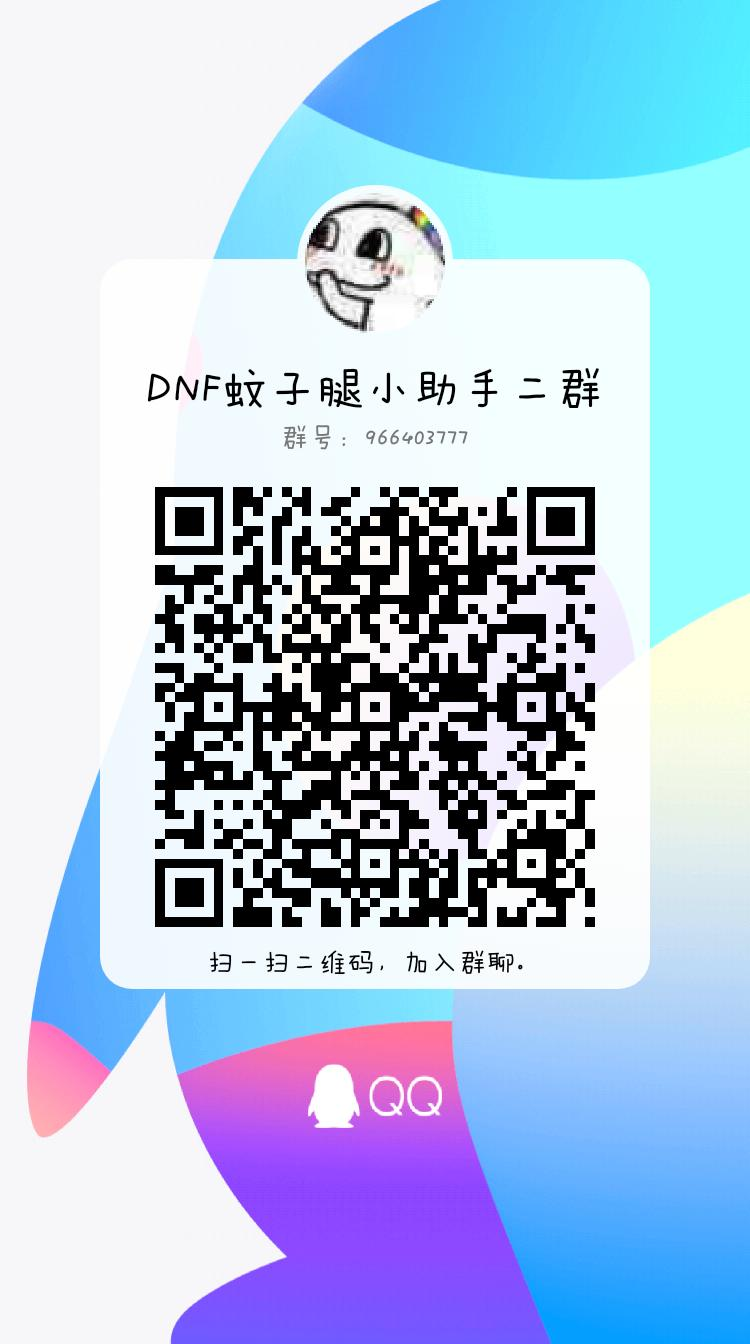
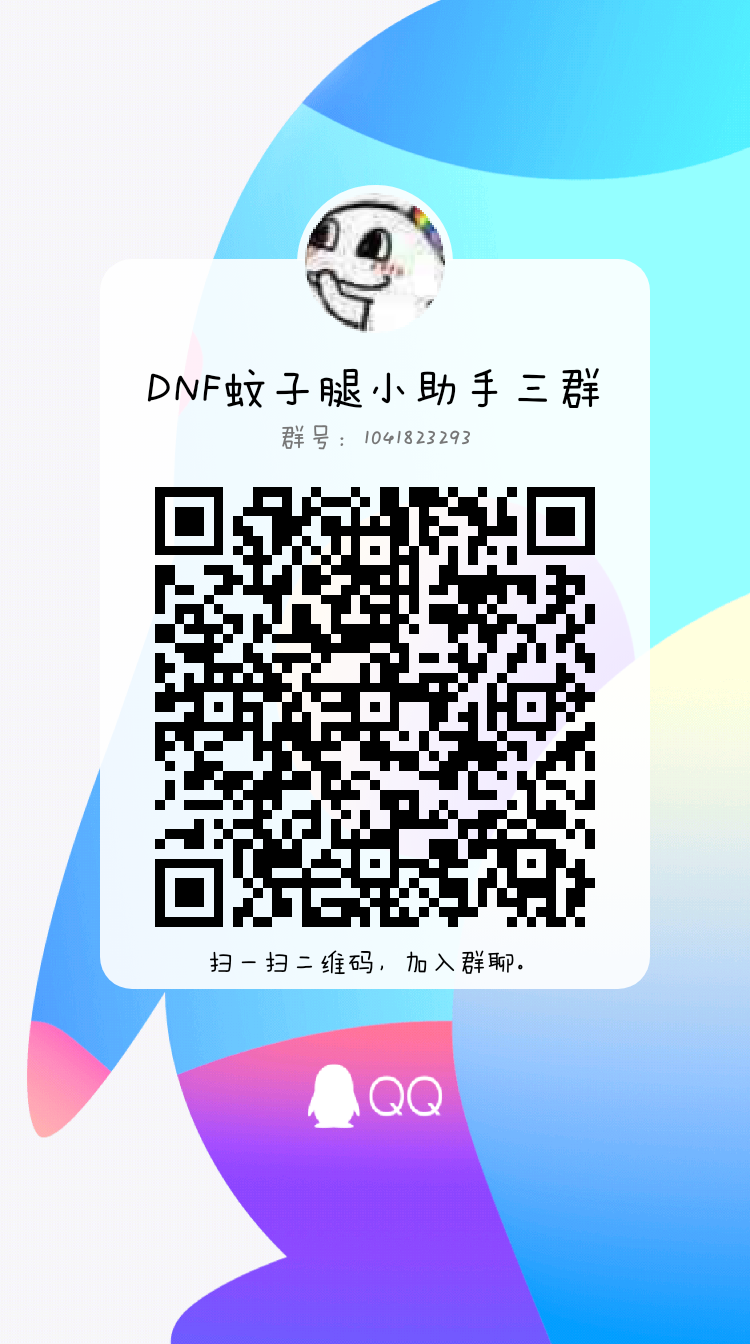
二群人满了，调整为三群

Changed region(s): [[0.184, 0.3125, 0.7973, 0.6875], [0.6747, 0.2812, 0.736, 0.3125]]

diff --git a/config_ui.py b/config_ui.py
@@ -345,7 +345,7 @@ class ConfigUi(QFrame):
 
     def add_group(self, checked=False):
         # note: 如果群满了，到 https://qun.qq.com/join.html 获取新群的加群链接 @2021-02-13 01:41:03 By Chen Ji
-        webbrowser.open("https://qm.qq.com/cgi-bin/qm/qr?k=qq31ZiZD6nK8gztuMGmYRLWPMbAEkn64&jump_from=webapi")
+        webbrowser.open("https://qm.qq.com/cgi-bin/qm/qr?k=dKS0MF1YTajyj-UURScD3PWbk-B_6-x7&jump_from=webapi")
 
     def add_account(self, checked=False):
         account_name, ok = QInputDialog.getText(self, "添加账号", "要添加的账号名称", QLineEdit.Normal, "")
